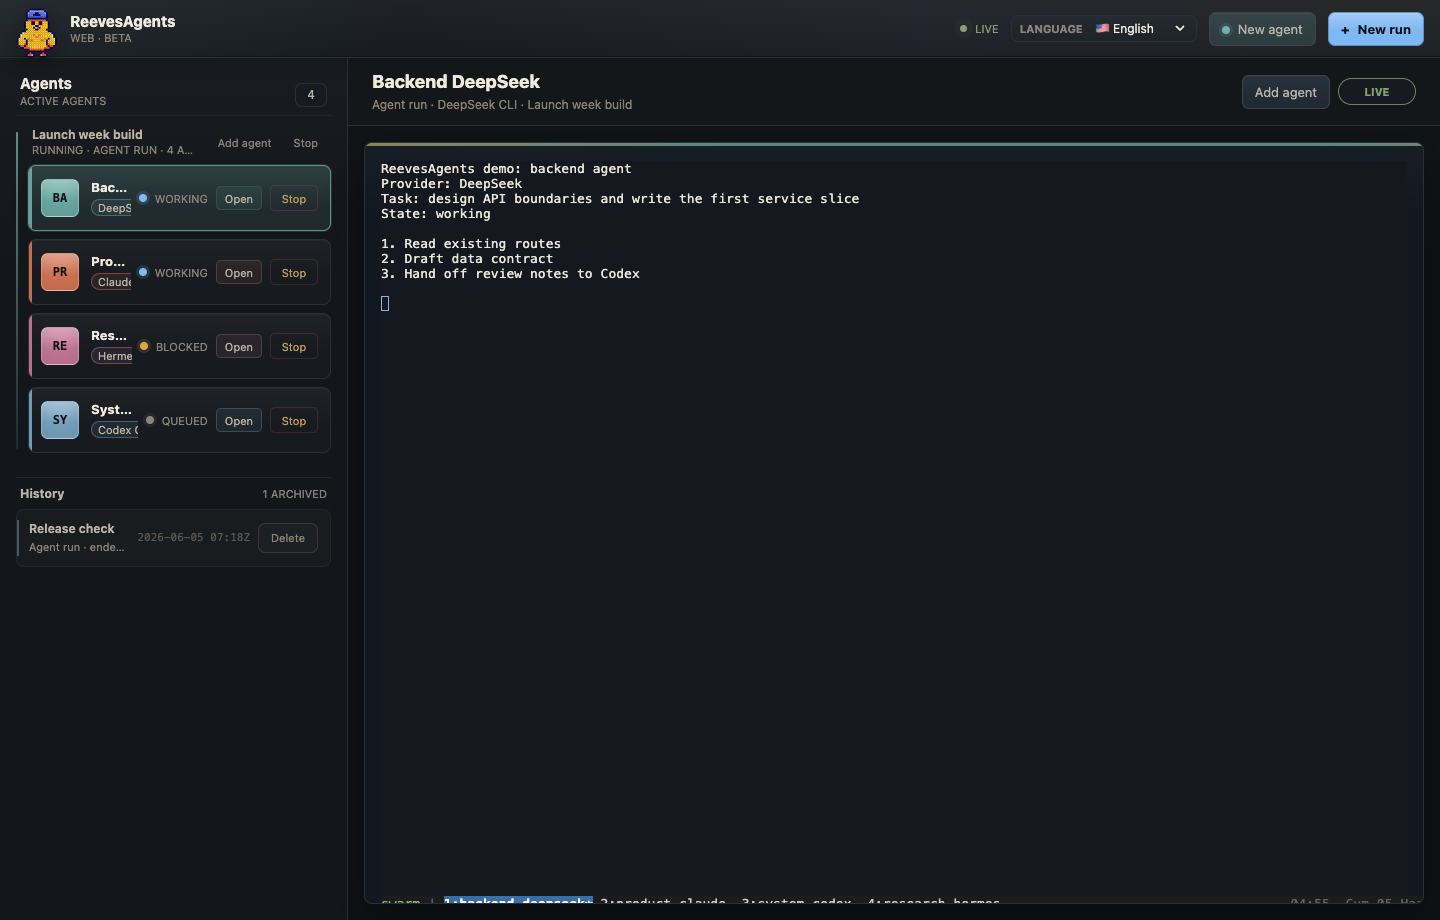
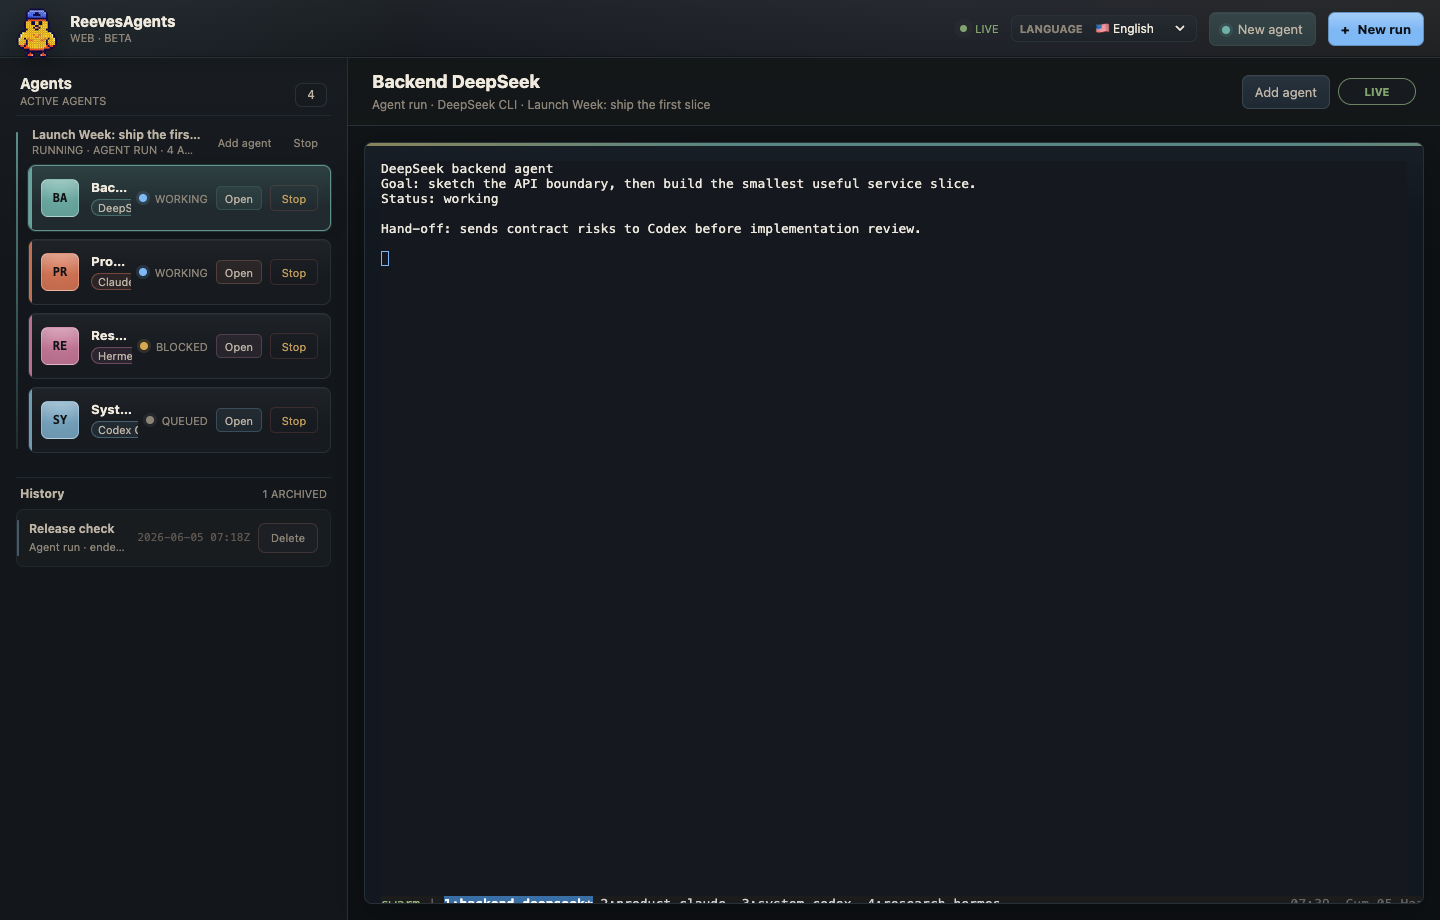
replace tui demo with vhs recording

Changed region(s): [[0.25, 0.1826, 0.6562, 0.3043], [0.4062, 0.0913, 0.5, 0.1217], [0.0625, 0.1217, 0.125, 0.1522]]

diff --git a/README.md b/README.md
@@ -48,21 +48,22 @@ CLIs alive.
 
 ## Screenshots And GIFs
 
-A short launch-week run shows the main idea: one workspace, several provider
-CLIs, and a clear view of what each agent is doing.
+This launch-week demo shows the core workflow: split one project across the
+CLIs that fit each job, keep every session local in tmux, and watch the whole
+run from the TUI or Web UI.
 
 ### TUI
 
-First run language selection, the ReevesAgents ASCII art, and the active run
-list.
+Recorded with VHS. Pick a language, jump from the ASCII-art welcome screen into
+active runs, then open the run to see agents, tasks, status, and history.
 
 ![ReevesAgents TUI language selection, welcome screen, and runs page](https://raw.githubusercontent.com/mertkayacs/reevesagents/master/docs/assets/reevesagents-tui.gif)
 
 ### Web UI Beta
 
-A live local Web UI view with four agents in one run: DeepSeek for backend,
-Claude Code for product and web direction, Codex for implementation review, and
-Hermes waiting on research approval.
+The same local run in the browser: DeepSeek drafts the backend, Claude Code
+works on product and web direction, Codex reviews the implementation path, and
+Hermes waits for explicit research approval.
 
 ![ReevesAgents Web UI showing a live multi-agent run](https://raw.githubusercontent.com/mertkayacs/reevesagents/master/docs/assets/reevesagents-web.png)
 
